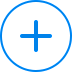
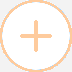
changed color of new note button

Changed region(s): [[0.0, 0.0, 1.0, 1.0], [0.2778, 0.2778, 0.7222, 0.7222]]

diff --git a/src/Sidebar.js b/src/Sidebar.js
@@ -73,16 +73,19 @@ const styles =  StyleSheet.create({
     },
     newNote: {
       marginTop: '2rem',
+      color: '#FECB9D',
       position: 'relative',
       width: '4rem',
     },
     newNoteImg: {
       position: 'absolute',
+      color: '#FECB9D',
       left: '0',
       width: '100%',
       transition: 'opacity 0.25s ease-in-out',
     },
     newNoteImgHover: {
+      color: '#FECB9D',
       ':hover': {
        opacity: 0,
       },
